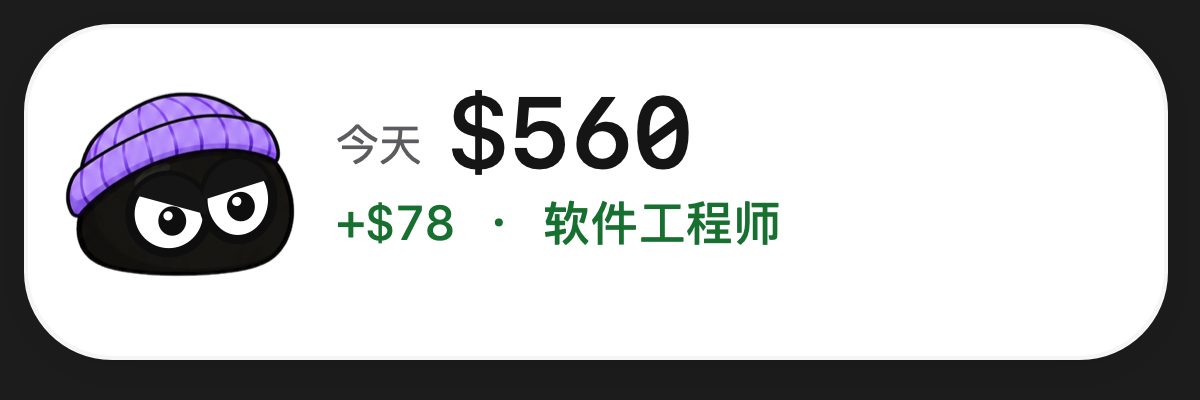
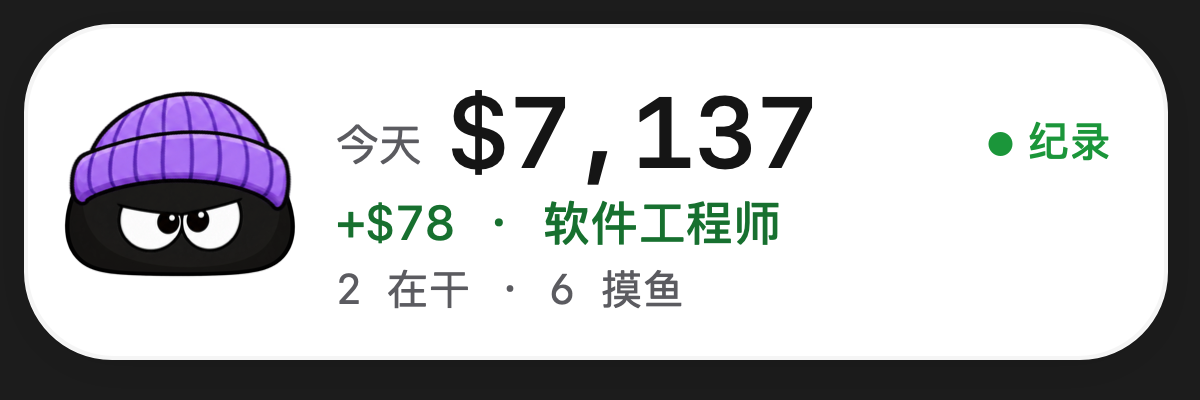
docs: DANGO, WorkBuddy, the deflated scoring and the art pipeline
README, CLAUDE.md, DESIGN.md, DEVELOPMENT.md and OPEN_QUESTIONS.md
follow the rename, the new sources (DeepSeek Harness, WorkBuddy), the
scoring rules and their rebuild, one scientist, the art pipeline
(dango_pack, fit_roles, check_art) and the domain question; the README
screenshots are re-taken.

diff --git a/CLAUDE.md b/CLAUDE.md
@@ -1,6 +1,6 @@
 # 打工团子 Dango — 衡量 AI 编码产出
 
-"团子"（英文 Dango，旧名 ShadowCorp）是一只桌面宠物，有活就在办公室工位上干、按正在干的活换装；每一步按"该请谁来做"计时、按该职业的 BLS 时薪折成 $，和单日纪录、上周比，每天出一张日报卡。没有段位和 XP（v4 删了）。当前设计：docs/DESIGN.md v6（2026-10-29：每个领域一个代表、共 23 种职业（2026-10-31 按 ABTI 设计包加回文案 writer（含翻译）和产品经理 pm；文字按 2,000 字/小时，文件名带 prd / roadmap / 需求 / 规划 / 排期的算产品经理）（程序员下按步骤分网页 / 测试 / 运维），话题关键词分大类，插画办公室（2026-11-06 删掉了经典主题，11-07 删掉了矢量办公室）；并掉的旧 id 走 `[alias]`）；不封顶（2026-10-29 起，回合 / 日 / 周都不封，assets/scoring.toml 只剩单位）；"影子公司 / 办公室 / 徽章"设定已收起，成就目录 assets/achievements.json 仍在但不是主界面。
+"团子"（英文 Dango，旧名 ShadowCorp）是一只桌面宠物，有活就在办公室工位上干、按正在干的活换装；每一步按"该请谁来做"计时、按该职业的 BLS 时薪折成 $，和单日纪录、上周比，每天出一张日报卡。没有段位和 XP（v4 删了）。当前设计：docs/DESIGN.md v6（2026-10-29：每个领域一个代表、共 20 种职业（2026-10-31 按 ABTI 设计包加回文案 writer（含翻译）和产品经理 pm；2026-11-07 数学家、物理学家、化学家、生物学家并成科学家 scientist（用户：「就是科学家就好了」，按用户选的科学家平均价 BLS 19-2000 $46.29，用户同意后跑了 `rebuild --allow-lower`，累计少了约 $200，备份在 ~/.dango/backup/data-before-scientist-20261107.db）；文字按 2,000 字/小时，文件名带 prd / roadmap / 需求 / 规划 / 排期的算产品经理）（程序员下按步骤分网页 / 测试 / 运维），话题关键词分大类，插画办公室（2026-11-06 删掉了经典主题，11-07 删掉了矢量办公室）；并掉的旧 id 走 `[alias]`）；不封顶（2026-10-29 起，回合 / 日 / 周都不封，assets/scoring.toml 只剩单位）；"影子公司 / 办公室 / 徽章"设定已收起，成就目录 assets/achievements.json 仍在但不是主界面。
 
 ## 命令
 - 构建：`cargo build --workspace`（发布：`cargo build --release`，二进制 `target/release/dango`）
@@ -9,12 +9,12 @@
 - 测试：`cargo test --workspace`（黄金回合 fixtures/scoring/golden.toml，由 occupation.rs 的 golden_turns 读；成就用例 crates/daemon/tests/achievements.rs）
 - 回放：`DANGO_HOME=/tmp/sc DANGO_TZ=+08:00 cargo run -p cli -- replay fixtures/hooks/claude_code`
 - 报告（文字）：`dango report [--week|--month|--year] --day yesterday --names [--tool claude|codex]`（`--day` 选哪天所在的周期）。分享图：`dango card [--week|--month|--year] [--day D] [--out /tmp/x.png] [--no-open]`（2026-11-01 起出的是报告窗口那套 4:5 分享图，从不带项目名和会话标题；渲染走 /Applications/Dango.app 的 `--abti … --page share`，改了 Swift 要先 bundle.sh + 重装；`card` 会覆盖剪贴板，只看渲染就 `dango abti --report KIND > x.json` 再 `dango-widget --abti x.json out.png --page share`）。
-- 仪表盘截图：`dango-widget --snapshot-dashboard out.png [--range 1|7|30] [--open-jobs] [--office N]`（`--office N` 编 N 个人进办公室看效果；读 $DANGO_HOME/widget.json）；宠物截图（右下角的卡片）：`--snapshot-pet out.png --state working|… --job <职业id> [--helpers N] [--receipt] [--backdrop]`（透明 PNG，`--backdrop` 加深色底）；办公室截图：`--snapshot-office out.png --jobs id,id,… [--working K]`（前 K 个在干）。改角色或办公室要截一张办公室和面板看（职业有设计包抠图的用抠图，没有的画成矢量团子，两种都要看）。
-- 办公室：只有设计稿的插画办公室（方案 B），没有主题菜单了。2026-11-06 删掉了经典主题（深色面板、舞台 + 茶水间办公室、大宠物、团子口味、旧分享卡，用户：「那我觉得你可以删掉这个版本的ui」），11-07 删掉了矢量办公室 A（用户：「请你把矢量办公室的也删掉」）；没有抠图的职业仍画成矢量团子（theme.swift `drawVectorDango`）。代码在 apps/widget/theme.swift（build.sh 把 main / theme / abti / story 四个文件一起编），插画和抠图在 apps/widget/assets/theme-b（bundle.sh 拷进 Dango.app/Contents/Resources）。`--snapshot-office … --statuses working,happy,fuming,waiting,idle,sleeping` 和 `--snapshot-dashboard --office N --statuses …` 指定每个人的状态；`--t 秒` 看某一时刻。设计稿原件在用户的 dango-ui-handoff 包（README、tokens.json）。办公室状态：守护进程写 `office[].status`（waiting / fuming / happy，见 widget.rs `office`），其余由小部件按 `since` 算（theme.swift `officeStatus`）。
-- 老板人格测试 ABTI（2026-10-31，设计包 ~/Downloads/dango-abti-handoff）：`dango abti [--json]` 出结果，`dango abti --report day|week|month|year|total [--day D]` 出报告窗口 / 分享图的数据（含 `sessions` / `projects`：这段时间做了哪些事，会话标题和项目文件夹名，Claude Code 和 Codex 都有，只给报告窗口用）。门槛和文案全在 assets/abti.json（= 设计包的 config/abti.json），调门槛、改文案只改它；计算在 crates/daemon/src/abti.rs（四维、规模、压榨率、团子构成、体检单、热力图按自己的四分位、故事的名场面）。界面在 apps/widget/abti.swift（总卡、16 型图鉴、规模 / 构成说明页、4 张分享图、报告窗口）和 story.swift（故事 8 屏、说明页窗口）；图片在 apps/widget/assets/abti（bundle.sh 拷进 Resources）。截图：`dango-widget --abti result.json out.png --page card|types|scale|roles|share|report|story [--screen N --guess HMSL|skip --t 秒 --bare] [--section crew|work] [--lang zh|en]`（要在仓库根目录跑，才读得到 assets/abti.json）。入口：右键「老板人格测试」（看测试结果 / 16 型图鉴 / 两张说明页）和「报告」，面板「导出今日日报」左边的方块开报告窗口；第一次有数据时自动打开故事一次（UserDefaults `abtiShown`）。故事、总卡和各页都跟界面语言走（英文文案是我们写的：abti.json 里各处 `*_en`，story 下的 `guess_lines_en` / `verdict_en` / `relations_en`、医嘱 `en`）。面板导出键右端 ▾ 选日报 / 周报 / 月报 / 年报（本期和上一期），出的都是 4:5 分享图。所有导出存 ~/Pictures/DONGO（2026-11-01 按设计包统一字标 DONGO 和文件夹）。
-- 一行命令安装：`package.sh` 同时出 `Dango-<版本>.zip` 和 `install.sh`（模板 apps/widget/install.sh.in，写进版本、SHA-256 和 `DANGO_RELEASE_URL`，默认 https://dongo.app 还没上线）；用户 `curl -fsSL <地址>/install.sh | sh`，curl 下载不带 quarantine 所以 Gatekeeper 不拦。脚本里变量后面紧跟中文要写成 `${VAR}`（sh 会把中文字节当成变量名）；更新时用 `pkill -x Dango` 退出旧的，别用 AppleScript（会弹自动化权限）。本机测：起 `python3 -m http.server 8790 --directory target/dist`，再 `DANGO_URL=http://localhost:8790 DANGO_APP_DIR=<临时目录> DANGO_NO_OPEN=1`。
+- 仪表盘截图：`dango-widget --snapshot-dashboard out.png [--range 1|7|30] [--open-jobs] [--office N]`（`--office N` 编 N 个人进办公室看效果；读 $DANGO_HOME/widget.json）；宠物截图（右下角只有一只团子，2026-11-07 用户：「就只放个团子…不需要这么大的白色背景」；结算、提示和鼠标停在上面时头顶冒一个深色小胶囊）：`--snapshot-pet out.png --state working|… --job <职业id> [--helpers N] [--receipt] [--backdrop]`（透明 PNG，`--backdrop` 加深色底）；办公室截图：`--snapshot-office out.png --jobs id,id,… [--working K]`（前 K 个在干）。角色总览：`--snapshot-roles out.png [--statuses idle,working,…]`（R01–R12 和不戴配饰的团子，每种状态一列；改团子部件或 tools/dango_pack.swift 里的调整表后看它）。改角色或办公室要截一张办公室和面板看（有配饰的职业和没配饰的都要看）。
+- 办公室：只有设计稿的插画办公室（方案 B），没有主题菜单了。2026-11-06 删掉了经典主题（深色面板、舞台 + 茶水间办公室、大宠物、团子口味、旧分享卡，用户：「那我觉得你可以删掉这个版本的ui」），11-07 删掉了矢量办公室 A（用户：「请你把矢量办公室的也删掉」）。团子都是按设计师 v2 开发包（~/Downloads/DONGO_Developer_Pack_v2）现拼的：身体 B01 + 状态眼神 E01–E12 + 职业配饰 P01–P12，部件和坐标在 apps/widget/assets/dango（tools/dango_pack.swift 从开发包切出来，dango.json 是 512×512 布局），theme.swift `drawPackDango` / `drawFittedDango` / `packPicture` 画（宠物卡片、办公室、名册、老板人格的团子构成和分享图都走它）；部件都按原比例放进框里居中（开发包渲染器的 xMidYMid meet）；眼镜的两个镜片在切图时量出来，左右眼分别放进镜片中间。每个角色的眼睛和配饰放在哪，是 tools/fit_roles.py 从设计师的角色总图（开发包 reference/original_design_pack/02_roles/12_roles.png）量出来、贴进 tools/dango_pack.swift 的 `measured` 表的（2026-11-07 用户：「团子的耳机和帽子都是不符合逻辑的」，开发包 manifest 的坐标和之前手调的都不对）：身体照总图画得更圆（B01 拉到高宽比 0.76），帽子的下沿停在眼白上沿，发带和头一样宽，耳机的箍压在头顶、眼睛放在两个耳罩中间；毛线帽、贝雷帽、鸭舌帽、耳机、发带不用图集里的：单独画的配饰没法「戴上」（帽子底部露在额头上、毛线帽扣在头顶不包头，用户：「帽子的底部不应该露在外面，而且紫色帽子应该包头」），2026-11-07 用户同意后用 Codex 自带的生图（开发包当初用的同一个工具，`codex exec -i 参考图`，gpt-6-astra xhigh）按这个身体重画成戴上的样子，原图在 apps/widget/assets/dango-src/worn；fit_roles.py 把配饰抠出来写成 P03 / P05 / P06 / P07 / P12（dango_pack 不再切这 5 个），毛线帽和鸭舌帽按「帽口以上的头全被盖住、帽口停在眼白上沿」自动定大小；铅笔要压住头的一角（`touch`：往身体中间挪到四分之一压在身体上，用户：「笔和团子有间隙」）。改了部件先跑 dango_pack，再跑 `python3 tools/fit_roles.py <开发包> apps/widget/assets/dango`，把输出贴回 `measured` 表再跑一次 dango_pack。眼神按开发包 taskVisuals：在干 E02、等你批准 E04、开心 E06、冒烟 E07（加额头泛红）、睡 E09、其余 E01；职业 → 角色见 `packRoles`（2026-11-07 起音乐人用开发包空着的爆炸头 R01、健身教练用运动发带 R12；开发包没有的职业同一天用同样的生图办法画了戴上的配饰 R13–R21：医生听诊器（先画的额镜像矿灯，用户：「感觉像矿工」）、律师假发、建筑师安全帽、厨师高帽、心理咨询师围巾、金融分析师绿色礼帽、前端螺旋桨帽、资料录入绿色遮阳帽檐、科学家推到额头的护目镜，用户：「可以把他们的装饰都放到他们的团子上吗」；fit_roles.py `EXTRA` 按戴法定位：cover 罩住头顶、band 绕头一圈压在眼白上沿、rest 立在头顶、wig 比头宽两边垂卷、neck 围在身体下半截眼睛往上让；dango_pack `extraRoles` 写进 dango.json），现在每个职业都有自己的样子。办公室沙发三个座位各对着一个坐垫，只陷进坐垫上沿 1.5 pt；等你批准的站在两张桌子中间、画在干活的后面。2026-11-07 删掉了旧的 R01–R12 抠图（浅色底抠的，边缘一圈灰白、只有约 300 px）、叠眼的 roleEyes 和矢量团子（用户：「这些贴图是有边缘的」「从根源上把图片这个问题解决」）。沙发和桌子的前景层是 theme-b/room-front.png（tools/room_front.swift 顺着坐垫、扶手的描边从 room.png 切出来，团子坐进沙发不再被平切）。bundle.sh 先跑 tools/check_art.swift：部件没透明、外缘亮色超过 30%、分辨率不到最大显示尺寸的 3 倍，打包就失败。代码在 apps/widget/theme.swift（build.sh 把 main / theme / abti / story 四个文件一起编），房间插画和前景层在 apps/widget/assets/theme-b，团子部件在 apps/widget/assets/dango（bundle.sh 都拷进 Dango.app/Contents/Resources）。`--snapshot-office … --statuses working,happy,fuming,waiting,idle,sleeping` 和 `--snapshot-dashboard --office N --statuses …` 指定每个人的状态；`--t 秒` 看某一时刻。设计稿原件在用户的 dango-ui-handoff 包（README、tokens.json）。办公室状态：守护进程写 `office[].status`（waiting / fuming / happy，见 widget.rs `office`），其余由小部件按 `since` 算（theme.swift `officeStatus`）。
+- 老板人格 ABTI（2026-10-31，设计包 ~/Downloads/dango-abti-handoff）：`dango abti [--json]` 出结果，`dango abti --report day|week|month|year|total [--day D]` 出报告窗口 / 分享图的数据（含 `sessions` / `projects`：这段时间做了哪些事，会话标题和项目文件夹名，Claude Code 和 Codex 都有，只给报告窗口用）。门槛和文案全在 assets/abti.json（= 设计包的 config/abti.json），调门槛、改文案只改它；计算在 crates/daemon/src/abti.rs（四维、规模、压榨率、团子构成、体检单、热力图按自己的四分位、故事的名场面）。界面在 apps/widget/abti.swift（总卡、16 型图鉴、规模 / 构成说明页、4 张分享图、报告窗口）和 story.swift（故事 7 屏：6 屏故事 + 总卡，没有「先猜」，2026-11-07 用户：「这个其实不是测试，是直接的输出」；说明页窗口）；图片在 apps/widget/assets/abti（bundle.sh 拷进 Resources）。截图：`dango-widget --abti result.json out.png --page card|types|scale|roles|share|report|story [--screen N（1–7）--t 秒 --bare] [--section crew|work] [--lang zh|en]`（要在仓库根目录跑，才读得到 assets/abti.json）。入口：右键「老板人格」（我的老板人格 / 16 型图鉴 / 两张说明页）和「报告」，面板底部「报告」开报告窗口；第一次有数据时自动放一次故事（UserDefaults `abtiShown`），之后「我的老板人格」直接打开总卡，‹ 往回翻故事。故事、总卡和各页都跟界面语言走（英文文案是我们写的：abti.json 里各处 `*_en`，story 下的 `verdict_en` / `relations_en`、医嘱 `en`）。面板底部一行（2026-11-07 用户嫌原来的大黑键占地方）：「分享日报」点了存图并弹系统分享菜单（main.swift `makeCard(shareFrom:)`），右键它是复制今日日报、分享 / 复制其他周期（本期和上一期）、打开导出文件夹；宠物右键「导出报告」仍是存图 + 复制。出的都是 4:5 分享图，日 / 周 / 月 / 年报上有这段时间自己的老板人格（abti.rs `letters()` 只算这段时间的回合，报告 JSON 的 `boss`），总计那张是总人格。所有导出存 ~/Pictures/DANGO。产品名是 DANGO（2026-11-07 用户：「产品名字不是dongo，是dango，所有的ui都要换一下的」）：字标是 D + 团子当 A + NGO + 蓝色箭头（abti.swift `AB.wordmark`，图在 theme-b/logo-dango.png），App 图标是白底圆角方块上的团子（icon.swift，同一张图）；11-01 到 11-07 用过设计包的 DONGO，旧的 ~/Pictures/DONGO 里的图不动。
+- 一行命令安装：`package.sh` 同时出 `Dango-<版本>.zip` 和 `install.sh`（模板 apps/widget/install.sh.in，写进版本、SHA-256 和 `DANGO_RELEASE_URL`，默认 https://dango.app 还没上线）；用户 `curl -fsSL <地址>/install.sh | sh`，curl 下载不带 quarantine 所以 Gatekeeper 不拦。脚本里变量后面紧跟中文要写成 `${VAR}`（sh 会把中文字节当成变量名）；更新时用 `pkill -x Dango` 退出旧的，别用 AppleScript（会弹自动化权限）。本机测：起 `python3 -m http.server 8790 --directory target/dist`，再 `DANGO_URL=http://localhost:8790 DANGO_APP_DIR=<临时目录> DANGO_NO_OPEN=1`。
 - 打包给别人：`apps/widget/package.sh` → `target/dist/Dango-<版本>.dmg`（通用二进制，macOS 13 起，ad hoc 签名；本机没有 Developer ID，没做公证）。`dango` 命令放在 `Dango.app/Contents/Helpers/dango`——放进 Contents/MacOS 会和 App 自己的 `Dango` 撞成同一个文件（磁盘不分大小写）。第一次打开时 App 写 `~/Library/LaunchAgents/com.dango.daemon.plist` 指向 Helpers 里的 dango 并启动（main.swift `ensureDaemon`）；已有指向别处、文件还在的 agent（开发机的 ~/.local/bin/dango）不动；App 原地更新后按二进制时间戳 kickstart 一次。看 App 会写什么 agent：`Dango.app/Contents/MacOS/Dango --print-daemon-agent`。`build.sh` 认 `SWIFT_TARGET`（如 `arm64-apple-macos13.0`）；不设就是本机系统版本，别的 Mac 打不开。
-- 守护进程第一次启动先导入历史（server.rs `import_history`，meta `history_imported`，和 `dango backfill` 一样的截止规则，backfill 模式），之后靠跟读：Codex 读 rollout（codex_tail.rs），Claude Code 读 transcript（claude_tail.rs，和回填共用 backfill.rs 的 `Transcript`，事件 id 相同）。装了 Dango 插件或 settings.json 里有 `dango hook` 时不读 Claude 的 transcript（`claude_tail::hooked`），钩子报过的会话也丢掉（server.rs `drop_hooked_sessions`）。跟读时还读 Claude Code 自己的 `~/.claude/sessions/<pid>.json`（`claude_tail::live_sessions`，内部文件不是公开接口，读不到就退回老规则）：idle → 回合马上结算，`waitingFor` → 记一条 `permission_prompt` 通知事件（不存对话框的字）。子 agent 从 transcript 记 `subagent_start` / `subagent_stop`，在干的帮手 = 开始 − 结束（`snapshot::running_helpers`）。团子的「最近动静」算所有事件（不只是钩子的）。右键「结算时发系统通知」（UserDefaults `settleNotice`，main.swift `SettleNotice`）代替钩子才有的结算框。测新用户：`HOME=<临时目录，里面 .claude/projects、.codex/sessions 软链到真的> DANGO_HOME=<临时>/.dango dango daemon`。
+- 守护进程第一次启动先导入历史（server.rs `import_history`，meta `history_imported`，和 `dango backfill` 一样的截止规则，backfill 模式），之后靠跟读：Codex 读 rollout（codex_tail.rs；每秒看最近 3 天的日期文件夹，每 30 秒看一遍所有日期文件夹——续聊的旧会话还写在它开始那天的文件夹里，2026-11-07 前这种会话要等重新导入历史才算上），WorkBuddy 读 `~/.workbuddy-ai/projects/*/<会话>.jsonl`（海外版 WorkBuddy AI；国内版 `~/.workbuddy`；workbuddy.rs：OpenAI Agents 式条目，`message`（人发的带 `providerData.startsNewUserRequest`）/ `function_call`（工具名和参数就是 Claude Code 的）/ `function_call_result`，每步第一条带 `rawUsage` token 和 credit；回答后 20 秒没动静算回合结束；模型是它自己的 "Auto"、只按 credit 计费没有官方 token 单价，所以 token 记下、花费不算；历史另记 meta `history_imported:workbuddy`；子 agent 不读），DeepSeek Harness 读 `~/.dsh/sessions/**/session.v4.jsonl.zstd`（dsh.rs：zstd 帧追加的事件日志，用纯 Rust 的 ruzstd 解；历史另记 meta `history_imported:deepseek`；工具名是 Claude Code 的小写版、参数同名，走同一个 `from_claude_hook`；子 agent 会话不读；价格按 DeepSeek 官方高峰价），Claude Code 读 transcript（claude_tail.rs，和回填共用 backfill.rs 的 `Transcript`，事件 id 相同）。装了 Dango 插件或 settings.json 里有 `dango hook` 时不读 Claude 的 transcript（`claude_tail::hooked`），钩子报过的会话也丢掉（server.rs `drop_hooked_sessions`）。跟读时还读 Claude Code 自己的 `~/.claude/sessions/<pid>.json`（`claude_tail::live_sessions`，内部文件不是公开接口，读不到就退回老规则）：idle → 回合马上结算，`waitingFor` → 记一条 `permission_prompt` 通知事件（不存对话框的字）。子 agent 从 transcript 记 `subagent_start` / `subagent_stop`，在干的帮手 = 开始 − 结束（`snapshot::running_helpers`）。团子的「最近动静」算所有事件（不只是钩子的）。右键「结算时发系统通知」（UserDefaults `settleNotice`，main.swift `SettleNotice`）代替钩子才有的结算框。测新用户：`HOME=<临时目录，里面 .claude/projects、.codex/sessions 软链到真的> DANGO_HOME=<临时>/.dango dango daemon`。
 - 隐私扫描：`cargo run -p cli -- privacy-scan`（提交前必跑）
 - 语言：`dango lang zh|en`（写 config.toml `general.locale`，守护进程看到改动就按新语言重写 widget.json）；截图在 `DANGO_HOME` 里先 `dango lang en` 再截，就是英文版。
 - 旧名兼容：仓库在 `~/dango`（GitHub justinz183/dango），本机插件是 `dango@dango`（目录市场指向 ~/dango，装的是 git HEAD，改了钩子要先提交再 `claude plugin marketplace update dango` + `claude plugin update dango@dango` + 重启 Claude Code）。Codex 不用钩子：守护进程每秒跟读 `~/.codex/sessions` 的 rollout（crates/daemon/src/codex_tail.rs，和回填共用 backfill.rs 的 `Rollout`，事件 id 相同所以不会重复计）；`dango hook --codex` 只是给旧的 ~/.codex/hooks.json 留的空操作。为了过渡还留着几个链接：`~/shadowcorp` → `~/dango`、`~/.shadowcorp` → `~/.dango`、`~/.local/bin/shadowcorp` → `dango`；代码也认 `SHADOWCORP_HOME` / `SHADOWCORP_TZ`。
@@ -31,7 +31,7 @@
 - crates/core 不做任何 IO；所有计分、进度、成就逻辑只在这里。
 - 事件表只追加；任何让用户历史总数变少的改动都不允许（SPEC 5.5）。
 - 不落盘、不上传 prompt / 代码 / 路径 / 仓库名（SPEC 14）。v5 起本地会存每个回合的 token 数（按模型）和按官方 API 价算出的模型花费——只有数字，永不上传（用户 2026-10-29 决定）。
-- 改职业表、时薪、每步分钟数（core/occupation.rs）、计分规则或成就阈值前先问我，并同步更新 golden.toml。不要再加封顶（用户 2026-10-29："就记数值就行了，不要封顶"）。
+- 改职业表、时薪、每步分钟数（core/occupation.rs）、计分规则或成就阈值前先问我，并同步更新 golden.toml。不要再加封顶（用户 2026-10-29："就记数值就行了，不要封顶"）。2026-11-07 去通胀（用户：「记分太通货膨胀了」「再优化下所有的角色的工作时间记分」）：一个回合里同一个文件只算一次（行数 / 字数累加后按一次定价，配置和图片一个文件一次，occupation.rs `TurnSteps`），同一职业的第 k 次命令或检索按 1/√k 算（不是封顶，越来越少但一直加），回合的 5 分钟和子 agent 的 12 分钟按各职业的份额分（原来全给最多的那个，软件工程师越滚越大），`.sh` 算运维，`components/ pages/ views/ ui/ public/ static/ frontend/ client/ www/` 里的 js / ts 算前端；ingest 用事件里存的行数、字数、文件 id 现算，所以 `rebuild` 能回算历史（路径没存，前端目录这条只管以后）。黄金回合的值用独立的 Python 模型算（golden.toml 头注释）。用户同意后跑了 `rebuild --allow-lower`：累计 $41,759 → $30,678（−26.5%），备份在 ~/.dango/backup/data-before-deflate-20261107.db。
 - 话题先分大类（occupations.toml `[[family]]`，每类一个代表职业）再按 `tell` 认专科；strong / weak 只给大类记分。中文是子串匹配，不收单字（白名单见 occupation.rs `no_single_character_keywords`），泛用词（怎么做、解释一下、经济、需求……）只能当弱词，tell 只收专科独有的词；加了词先跑 `echo '一句话' | cargo run -q -p dango-core --example topic`、`families_then_specialties` 和 `everyday_prompts_have_no_topic`。泛用词藏在别的词里也会命中（"提供给"含"供给"、"帮我查查"），所以强词必须是只在那个行当出现的词，改完先跑 `python3 tools/topic_calibrate.py`（本机真实提示过一遍，只打印前 64 字、不落盘）和 `--why`（看每条命中了哪些词）。几个大类打平时（各命中一个强词），钩子把并列的都写进 `topic_ties`，守护进程沿用会话当前话题（replay.rs `a_tied_prompt_stays_on_the_sessions_topic`）。
 - 时薪只能来自可查的来源（目前是 BLS OEWS API），写明序列和日期；模型单价只能抄官方价格页（assets/model_prices.toml 写明 URL 和日期）。不凭记忆填数。
 - $ = 各职业分钟 × 该职业时薪；累计只增不减。例外只有用户明确同意时的 `dango rebuild --allow-lower`（2026-10-29：文字改成 2,000 字/小时、去掉文案写作，用户同意历史重算变少）。2026-10-31 按设计包加回文案和产品经理后，历史没有重算（重算会把一部分研究员的钱挪到时薪更低的文案，总数会变少，要用户同意才能 `--allow-lower`）。

diff --git a/docs/DESIGN.md b/docs/DESIGN.md
@@ -10,7 +10,7 @@ ShadowCorp 是住在屏幕角落的"你的 Claude"：它记得自己替你干了
 
 用户："帮我把整个系统都按照这个名字修改，并且中英文版都要开发，然后加一个语言转换功能"；"对比先加这个自己的历史、全职工程师当量"；"工位每次只能一个人干吗……多人一起干的时候怎么样……浇花的时候花洒位置不对……那个花要是花才对"。
 
-- **名字**：中文"打工团子"，英文 Dango（日语团子；角色本来就是一颗黑芝麻团子）。宠物默认叫"团子"/"Dango"（`config.character.name` 为空时）。命令 `dango`，App `Dango.app`（bundle id com.dango.widget），数据 `~/.dango`（`DANGO_HOME`），守护进程 com.dango.daemon，导出存 `~/Pictures/DONGO/`（2026-11-01 前是 `~/Pictures/Dango/`），crate `dango-core`，插件清单 `dango`。旧名都留了兼容（见 CLAUDE.md）。
+- **名字**：中文"打工团子"，英文 Dango（日语团子；角色本来就是一颗黑芝麻团子）。宠物默认叫"团子"/"Dango"（`config.character.name` 为空时）。命令 `dango`，App `Dango.app`（bundle id com.dango.widget），数据 `~/.dango`（`DANGO_HOME`），守护进程 com.dango.daemon，导出存 `~/Pictures/DANGO/`（2026-11-01 前是 `~/Pictures/Dango/`，11-01 到 11-07 是 `~/Pictures/DONGO/`），crate `dango-core`，插件清单 `dango`。旧名都留了兼容（见 CLAUDE.md）。
 - **语言**：`config.toml` 的 `general.locale`（"zh-CN" / "en"）。`dango lang zh|en` 改它；守护进程每次轮询看 config 的修改时间，变了就重读并重写 widget.json，所以菜单一点、两秒内全换。widget.json 和每份报告都带 `lang`；职业名在出口统一换（`widget::localize`），英文名是 `occupations.toml` 的 `name_en`（软件工程师 = Software engineer，前端工程师 = Front-end engineer……），来源说明 `label_en`。英文日期："Thursday, Oct 29"、"Oct 26 – Nov 1 · Week 44"、"October 2026"。英文句子里的职业名小写并带冠词（`a_job`："Mostly a software engineer today"）。
 - **和自己比、全职当量**（卡片上一行，日报在纪录条下面，周 / 月 / 年报在"上期 → 本期"下面）：`standing` = 这一期在你自己所有有活的同类期里排第几（日报说"超过你 95% 的日子"，其余说"你最好的一周（共 3 周）""你第 2 好的一个月"，第一期说"这是你的第一周"）；`people` = 工时 ÷ 一个全职的人一天 8、一周 40、一个月 160、一年 2080 小时（"相当于 4.3 个人全职干一天"）。只用本机数据，不和别人比（没有可比的公开数据，上传要另议）。
 - **卡片修正**：不显示会话标题时，会话行写"软件工程师 · Claude Code · 100 个回合"而不是"会话 1"；月历和年热力图里开始记录之前的日子画成浅色（月历在第一天标"开始记录"）；周 / 月 / 年报的"单日纪录"那行换成上面的对比行。
@@ -23,10 +23,10 @@ ShadowCorp 是住在屏幕角落的"你的 Claude"：它记得自己替你干了
 用户："我做了几个版本的设计方案，你可以做一个换装吗，就是主题更换，这样我可以看不同主题下的展示"。右键「主题 / Theme」三选一，切换时面板和桌面上的小东西一起换：
 
 - ~~**经典**~~：原来的深色玻璃仪表盘和透明桌宠。2026-11-06 删掉（用户看了一台没装插件的新机器：「那我觉得你可以删掉这个版本的ui」）：新装的机器默认是它；现在默认插画办公室，存着 `classic` 的读成插画办公室。团子口味、舞台 + 茶水间办公室、按场景干活的大宠物、旧的四种分享卡（§5）和面板上的「全部 / Claude Code / Codex」切换跟着一起删了（widget.json 不再写按工具的 `views`）。
-- ~~**A · 矢量办公室**~~：2026-11-07 删掉（用户：「请你把矢量办公室的也删掉」），右键的主题菜单也没了；没有抠图的职业仍画成矢量团子。
+- ~~**A · 矢量办公室**~~：2026-11-07 删掉（用户：「请你把矢量办公室的也删掉」），右键的主题菜单也没了；没有抠图的职业仍画成矢量团子。同一天稍后，抠图和矢量团子也都换掉了：团子都是按设计师 v2 开发包（~/Downloads/DONGO_Developer_Pack_v2）现拼的：身体 B01 + 状态眼神 E01–E12 + 职业配饰 P01–P12，部件和坐标在 apps/widget/assets/dango（tools/dango_pack.swift 从开发包切出来，dango.json 是 512×512 布局），theme.swift `drawPackDango` / `drawFittedDango` / `packPicture` 画（宠物卡片、办公室、名册、老板人格的团子构成和分享图都走它）；眼神按开发包 taskVisuals：在干 E02、等你批准 E04、开心 E06、冒烟 E07（加额头泛红）、睡 E09、其余 E01；职业 → 角色见 `packRoles`，没有配饰的职业是同一个身体。2026-11-07 删掉了旧的 R01–R12 抠图（浅色底抠的，边缘一圈灰白、只有约 300 px）、叠眼的 roleEyes 和矢量团子（用户：「这些贴图是有边缘的」「从根源上把图片这个问题解决」）。沙发和桌子的前景层是 theme-b/room-front.png（tools/room_front.swift 顺着坐垫、扶手的描边从 room.png 切出来，团子坐进沙发不再被平切）。bundle.sh 先跑 tools/check_art.swift：部件没透明、外缘亮色超过 30%、分辨率不到最大显示尺寸的 3 倍，打包就失败。
 - **A · 矢量办公室**、**B · 插画办公室**：设计稿 v3（dango-ui-handoff，2026-10-30）。白色面板 440 宽：顶栏（字标、day N、圆形收起键）→ 办公室（A 392×210 代码画的房间，B 392×178 插画背景 + 设计包的角色抠图）→ 今日 $ 大数字、单日纪录、团子的一句话 → 1D / 7D / 30D → 四个数字块 → 员工名册（在干黑卡、等你批准白卡描边、摸鱼灰卡、下班淡掉；默认 6 张，+ 展开）→ Claude Code 与 Codex 对比条 → 最近 30 天柱图（今天绿色）→ 导出（左边方块打开报告窗口，右边黑色主按钮导出今日日报，右端 ▾ 选周报 / 月报 / 年报和上一期）。桌面上的团子换成 300×100 的白卡（团子、今天 $、纪录、在当谁 · 杠杆、几人在干 / 摸鱼）。
 - **团子的状态**（README 办公室的状态）：在干 / 开心 / 冒烟 / 等你批准 / 摸鱼 / 睡了 / 下班，各有眼神、动作（bob、hop、shake、tilt、breathe）和位置（两个工位、站位、三个沙发座位、A 还有门口一个），换位置时 0.9 秒走过去，每 4.3 秒眨一次眼。状态从哪来（2026-10-30）：守护进程按事件写 `office[].status` / `status_since`——**等你批准** = 会话收到 `permission_prompt` 通知、到它下一个事件为止（等多久都算）；**冒烟** = 本回合测试命令失败 ≥ 3 次（`widget::FUMING_FAILS`）；**开心** = 最近一个回合以测试全绿或一次提交结束、30 分钟内（`HAPPY_MS`）。在干 / 摸鱼 / 睡了（一小时没活）/ 下班（今天没活）由小部件按时间算。角落卡片上的团子用当前职业在办公室里的状态。用例 replay.rs `office_states_follow_the_events`。
-- **和设计稿不一样的地方**：名册用职业名，没有"阿析、码哥"这种名字；设计包只画了 7 个职业的配饰 / 抠图（数据分析师、软件工程师、平面设计、研究员、视频剪辑、运维、B 里还有测试），别的职业在 A 里是不戴配饰的团子，在 B 里退回 A 的矢量团子；B 右边站位和两个工位会挤（设计稿已知问题 3）；中文模式下 day N、1D / 7D / 30D、avg $/d 写成「第 N 天」「1 天 / 7 天 / 30 天」「日均」（一屏一种语言）。2026-11-01 起字标和设计稿一样写 DONGO。
+- **和设计稿不一样的地方**：名册用职业名，没有"阿析、码哥"这种名字；设计包只画了 7 个职业的配饰 / 抠图（数据分析师、软件工程师、平面设计、研究员、视频剪辑、运维、B 里还有测试），别的职业在 A 里是不戴配饰的团子，在 B 里退回 A 的矢量团子；B 右边站位和两个工位会挤（设计稿已知问题 3）；中文模式下 day N、1D / 7D / 30D、avg $/d 写成「第 N 天」「1 天 / 7 天 / 30 天」「日均」（一屏一种语言）。2026-11-01 起字标和设计稿一样写 DONGO；2026-11-07 用户改回产品名 DANGO，字标是 D + 团子当 A + NGO + 蓝色箭头，App 图标换成白底上的团子。
 
 ### Codex 不用钩子（2026-10-29）
 
@@ -105,7 +105,7 @@ v2 的四类是按 prompt 关键词分的，78% 落进"其他"，而且只认得
 | 视频剪辑 | 27-4032 | $36.26 | ffmpeg / moviepy / remotion；配音 tts；whisper 字幕；yt-dlp | 15 / 15 / 20 / 5 |
 | 资料录入 | 43-9021 | $19.88 | OCR（tesseract、自写 ocr 脚本） | 15 |
 
-一个回合 = 各步之和 + 5 分钟（读需求、汇报）+ 每个子 agent 12 分钟，都记在本回合最主要的职业上。写 md / txt / docx …（文字）不再是单独的职业（2026-10-29 去掉了"文案写作"，用户："不要加文案这个工种了，放到别的工种里面"）：字数 ÷ 2,000 字/小时（至少 3 分钟），算研究员的活（用户："writer 这件事本身就不应该存在，就是按照 researcher 的工种来的"），和搜索、读网页一样，在有话题的回合里跟着研究一起归给话题的职业；聊写作、翻译的话题也归研究员。旧数据里的 `writer` 走 `[alias]` 读成研究员。不封顶（2026-10-29 起）：原来的单回合 6 小时、每日 6 人日、每周 30 人日都去掉了，用户原话"不需要记分的，就记数值就行了，不要封顶"——两个 agent 一起跑，下午一点就到了每日上限，之后干的活全记 $0，看起来像没反应。2026-10-31 ABTI 设计包把文案（writer，含翻译）和产品经理（pm，SOC 13-1082，BLS $49.19）加回来，共 23 种：文字归文案，文件名带 prd / roadmap / 需求 / 规划 / 排期的归产品经理；话题里写作、翻译归文案，PRD、路线图、排期、需求评审归产品经理（研究员的规划类强词挪给了它）。历史没有重算。字数只数不存；命令只看关键词，不存。规则在 `crates/core/src/occupation.rs`，12 个黄金回合在 `fixtures/scoring/golden.toml`。
+一个回合 = 各步之和 + 5 分钟（读需求、汇报）+ 每个子 agent 12 分钟，都记在本回合最主要的职业上。写 md / txt / docx …（文字）不再是单独的职业（2026-10-29 去掉了"文案写作"，用户："不要加文案这个工种了，放到别的工种里面"）：字数 ÷ 2,000 字/小时（至少 3 分钟），算研究员的活（用户："writer 这件事本身就不应该存在，就是按照 researcher 的工种来的"），和搜索、读网页一样，在有话题的回合里跟着研究一起归给话题的职业；聊写作、翻译的话题也归研究员。旧数据里的 `writer` 走 `[alias]` 读成研究员。不封顶（2026-10-29 起）：原来的单回合 6 小时、每日 6 人日、每周 30 人日都去掉了，用户原话"不需要记分的，就记数值就行了，不要封顶"——两个 agent 一起跑，下午一点就到了每日上限，之后干的活全记 $0，看起来像没反应。2026-10-31 ABTI 设计包把文案（writer，含翻译）和产品经理（pm，SOC 13-1082，BLS $49.19）加回来，共 23 种：文字归文案，文件名带 prd / roadmap / 需求 / 规划 / 排期的归产品经理；话题里写作、翻译归文案，PRD、路线图、排期、需求评审归产品经理（研究员的规划类强词挪给了它）。历史没有重算。2026-11-07 数学家、物理学家、化学家、生物学家并成一个科学家（scientist，BLS 19-2000 Physical Scientists $46.29，2025 年 5 月中位数，2026-11-07 取；四个的关键词合在一起、四个话题大类并成「科学」；旧 id 和 mech / ee 走 `[alias]`），共 20 种；用户同意总数变少，跑了 `rebuild --allow-lower`（$39,787 → $39,585，其中科学家约 −$224，其余是 10-31 以来没回算的规则；重建后守护进程重新导入历史，补进了 Codex 跟读漏掉的 7 个会话 +$876）。字数只数不存；命令只看关键词，不存。规则在 `crates/core/src/occupation.rs`，12 个黄金回合在 `fixtures/scoring/golden.toml`。
 
 拿真实历史验证（2026-10，130 个回合）：程序员 25.6h、文案写作 28.6h、视频剪辑 26.0h、数据分析师 20.1h、研究员 10.3h …… 合计 129h，$6,054。
 
@@ -180,7 +180,7 @@ Claude Code 自己会给每个会话起标题（如「修复添加deepseek后的
 
 - 12 个月柱图（按职业堆叠，$ 过万写成 `$12.6k`，标最好的一个月；当月加粗、未来月份变淡）、全年热力图（每周一列、周一在上，月份名写在该月第一个整周上方；今天描边，之后的格子变淡；左下"最好的一天"，右下少 → 多图例）、都当了谁、活跃天数 / 回合 / 测试 / 杠杆、「去年 → 今年」与单日纪录、角色年评（160 小时 = 一个全职月：「今年顶一个全职干了 1.6 个月。」）。没放会话和作息，保证不超过 9:16。
 - **周期的名字**：当前周期说"今天 / 这周 / 这个月 / 今年"，比较对象是"昨天 / 上周 / 上个月 / 去年"；导出过去的周期时改说"那天 / 那周 / 那个月 / 那一年"，比较写绝对名字（`10/27 → 10/28`、`第 42 周 → 第 43 周`、`8 月 → 9 月`、`2024 年 → 2025 年`；报告里的 `now_label` 和 `prev.label`）。连续天数只在今天的日报上出现。
-- **导出入口**：仪表盘底部"导出报告"四个按钮（今日日报 / 本周周报 / 本月月报 / 今年年报，按当前选的 agent）；右键菜单"导出报告"子菜单多了昨日 / 上周 / 上月 / 去年。点了之后宠物说"正在生成…"，好了说"已复制到剪贴板"，失败说"没生成出来"；卡片同时存到 `~/Pictures/Dango/` 并打开。
+- **导出入口**：仪表盘底部"导出报告"四个按钮（今日日报 / 本周周报 / 本月月报 / 今年年报，按当前选的 agent）；右键菜单"导出报告"子菜单多了昨日 / 上周 / 上月 / 去年。点了之后宠物说"正在生成…"，好了说"已复制到剪贴板"，失败说"没生成出来"；卡片同时存到 `~/Pictures/Dango/` 并打开。（2026-11-07 起：面板底部只剩一行「按 BLS 中位时薪折算 · 报告 · ⇪ 分享日报」，点分享日报存到 `~/Pictures/DANGO` 并弹系统分享菜单，右键是复制和其他周期；日 / 周 / 月 / 年报分享图在金额下面加一条这段时间的老板人格。）
 
 ## 6. 小部件
 
@@ -201,13 +201,14 @@ Claude Code 自己会给每个会话起标题（如「修复添加deepseek后的
 冷启动活动：按真实用法把用户归到 16 型老板之一，做成故事、总卡、报告和分享图。设计包是 dango-abti-handoff（README、tokens、prototypes、config/abti.json）；**门槛和文案只在 assets/abti.json**，程序直接读，代码里不写死。
 
 - **四个维度**（abti.rs `result`）：H/M 看回合里 AI 自己动手的程度（工具调用 ≥ 8 或带子 agent 算放手）；B/F 看新文件里写的行数占全部改动的比例；S/G 看占比 ≥ 10% 的角色有几个（≥ 3 个算跨界）；L/O 看 20 点到次日 8 点的本地计时分钟占比。贴近分界线的维度在总卡上标「≈ on the fence」。绝配 = 前两个字母反过来、后两个不变。
-- **钱**：公司规模按累计产出分 5 档（固定门槛，不年化，不和别人比）；压榨率 = 1 − 模型花费 ÷ 产出，分档起名；杠杆 = 产出 ÷ 模型花费。团子构成把 23 种职业映射到 8 个角色 + 6 个隐藏款（占比 ≥ 10% 才露出来），其余算「其他」。
+- **钱**：公司规模按累计产出分 5 档（固定门槛，不年化，不和别人比）；压榨率 = 1 − 模型花费 ÷ 产出，分档起名；杠杆 = 产出 ÷ 模型花费。团子构成把 20 种职业映射到 8 个角色 + 6 个隐藏款（占比 ≥ 10% 才露出来），其余算「其他」。
 - **体检单** 6 格：累计 token（全产品唯一列 token 的地方）、新增代码行、测试一次过、夜班指数、最长连续开工、最多同时带的子 agent；分档是 Dango 自定的，样本太少就标出来。
 - **热力图** 按自己的产出排序分四档（不和别人比）。
 - **名场面**：最晚收工的回合（只看 0–6 点）、最拼的一天、最长连续开工、最长的一回合。回合长度按「AI 在干活的时间」算：回合里相邻事件的间隔相加，超过 10 分钟的间隔不算（那是在等人，不是在干活）——不然一个开着放了一夜的回合会显示成 21 小时。
-- **故事模式**（story.swift）：8 屏，540 × 960，白底（扫描那屏黑底）、8 段进度条、36pt 关闭键；点右边下一屏、左边三分之一或 ‹ 上一屏、← → 也行；关掉直接到第 8 屏总卡并复制到剪贴板；每屏能「分享这一屏」（1080 × 1920，去掉按钮，底部 dongo.app）。第 2 屏扫描 3 秒，第 3 屏字母每个间隔 0.35 秒翻 0.5 秒、1.6 秒出场景、2.1 秒对答案；系统开了「减少动态效果」就直接显示终态。故事中英两版都有，跟界面语言走（英文是我们写的，设计包只画了中文）；第 8 屏顶栏有「分享总卡」。
+- **故事模式**（story.swift）：7 屏，540 × 960，白底（扫描那屏黑底）、7 段进度条、36pt 关闭键；点右边下一屏、左边三分之一或 ‹ 上一屏、← → 也行；关掉直接到第 7 屏总卡并复制到剪贴板；每屏能「分享这一屏」（1080 × 1920，去掉按钮，底部 dango.app）。第 1 屏扫描 3 秒，第 2 屏字母每个间隔 0.35 秒翻 0.5 秒、1.6 秒出场景；2026-11-07 去掉了原来的第 1 屏「先猜」和揭晓屏的对答案（用户：「这个其实不是测试，是直接的输出」），故事只自动放一次，之后「我的老板人格」直接打开总卡，‹ 往回翻；系统开了「减少动态效果」就直接显示终态。故事中英两版都有，跟界面语言走（英文是我们写的，设计包只画了中文）；第 8 屏顶栏有「分享总卡」。
 - **报告窗口**（560 × 822）：日报 / 周报 / 月报 / 年报 / 总计五页（年报是 11-01 按用户要求加的：12 个月柱图、最拼的一个月、开工天数、最长连续），‹ › 翻期，导出对应的 540 × 675 分享图（存 1080 × 1350）。柱图下面一块可以在「团子构成」和「做了哪些事」之间切换（§4，只在本机显示，不进分享图）。
-- 二维码指向那一型自己的页面（`dongo.app/t/MBGO/`，英文 `/en/t/MBGO/`），日 / 周 / 月 / 年分享图指向首页；站点在 `site/`（见 site/README.md），还没上线，域名是占位。
+- 面板「工具分布」（2026-11-07，原来标题把各工具名连起来写，四个工具时压到右边的说明，用户：「不需要写 Claude Code, Codex, DeepSeek」）：Claude Code、Codex、DeepSeek、WorkBuddy 最多四个，各自的产出占比和杠杆。
+- ~~二维码指向那一型自己的页面~~：2026-11-07 起分享图、总卡和故事上都没有二维码和域名了（dango.app 不是我们的，挂在 GoDaddy 出售；用户：「不需要二维码dango.app，啥都不需要」），底部只留一行「全在本机算 …」；站点 `site/` 还在，没上线。
 
 ## 8. 实现顺序
 

diff --git a/README.md b/README.md
@@ -1,19 +1,23 @@
 <p align="center">
-  <img src="docs/images/pet.png" width="400" alt="屏幕角落的团子：今天 $560，刚结算一笔 +$78 · 软件工程师">
+  <img src="docs/images/logo.png" width="300" alt="DANGO">
 </p>
 
-<h1 align="center">打工团子 DONGO</h1>
+<p align="center">
+  <img src="docs/images/pet.png" width="400" alt="屏幕角落的团子：今天的产出，刚结算一笔 +$78 · 软件工程师">
+</p>
+
+<h1 align="center">打工团子 DANGO</h1>
 
 <p align="center">
   <b>你的 AI 在替你打工。团子把它干的活折成工钱，摆在你的桌面上。</b><br>
-  macOS 桌面小宠物 · Claude Code 和 Codex · 全部在本机算 · 中文 / English
+  macOS 桌面小宠物 · Claude Code、Codex 和 DeepSeek Harness · 全部在本机算 · 中文 / English
 </p>
 
 ---
 
 ## 一个新的算法
 
-每天你把活交给 Claude Code 和 Codex：改代码、做表、剪视频、查资料、写方案。它们到底替你干了多少？token 数和账单回答不了这个问题。
+每天你把活交给 Claude Code、Codex 和 DeepSeek Harness：改代码、做表、剪视频、查资料、写方案。它们到底替你干了多少？token 数和账单回答不了这个问题。
 
 团子换了个算法：把 AI 当成一群员工。AI 每做一步，团子就问一句「这活该请谁来干」：改代码请软件工程师，修图请设计师，查文献请研究员，问猫为什么拉肚子请医生。它估一个人干这一步要多久，再按美国劳工统计局公布的这个职业的中位时薪，折成一笔工钱。
 
@@ -35,21 +39,21 @@
 - **今天的产出**：今天干了多少钱的活，破没破纪录，团子再说一句话。
 - **四个数字**：今日、本周、本月、总计，每个都带着模型花费和杠杆。
 - **员工名册**：每个职业干了多少小时、值多少钱，现在是什么状态。
-- **Claude Code 与 Codex**：两边各占多少、各自的杠杆。
+- **Claude Code、Codex 与 DeepSeek**：各占多少、各自的杠杆。
 - **最近 30 天**：每天一根柱子，今天是绿色的。
 
 右键可以切换中文和英文。
 
 <p>
   <img src="docs/images/panel-top.png" width="320" alt="面板上半：插画办公室、今天的产出、四个数字">
-  <img src="docs/images/panel-bottom.png" width="320" alt="面板下半：员工名册、Claude Code 与 Codex、最近 30 天、导出">
+  <img src="docs/images/panel-bottom.png" width="320" alt="面板下半：员工名册、各工具占比、最近 30 天、报告和分享">
 </p>
 
-### 老板人格测试
+### 老板人格
 
-团子第一次读完你的历史，会打开一段八屏的故事：先猜猜自己是什么样的老板，再看团子们翻你的历史、揭晓答案、给你发工资条、回放名场面（最晚的一夜、最拼的一天）、出一张体检单，最后介绍你的绝配。
+团子第一次读完你的历史，会放一段故事：团子们翻你的历史、揭晓你是哪一种老板、给你发工资条、回放名场面（最晚的一夜、最拼的一天）、出一张体检单，最后介绍你的绝配。不用答题，全是从你的历史里直接算出来的。之后在右键「老板人格」→「我的老板人格」直接看总卡。
 
-<img src="docs/images/story.png" alt="故事模式：先猜、揭晓、发工资、绝配">
+<img src="docs/images/story.png" alt="故事模式：扫描、揭晓、发工资、绝配">
 
 四个维度，十六型老板：
 
@@ -69,18 +73,18 @@
 
 ### 报告和分享图
 
-右键「报告」，或者点面板导出键左边的方块，打开报告窗口：日报、周报、月报、年报和总计。前四种都和上一期比，也能往回翻到过去任何一期。柱图下面可以在「团子构成」和「做了哪些事」之间切换，后者列出这段时间的会话和项目，只在你自己的电脑上显示。
+右键「报告」，或者点面板底部的「报告」，打开报告窗口：日报、周报、月报、年报和总计。前四种都和上一期比，也能往回翻到过去任何一期。柱图下面可以在「团子构成」和「做了哪些事」之间切换，后者列出这段时间的会话和项目，只在你自己的电脑上显示。
 
-每一页都能导出一张 4:5 的分享图，存到 `~/Pictures/DONGO`，同时复制到剪贴板。分享图上从来不带项目名和会话标题。
+每一页都能导出一张 4:5 的分享图，存到 `~/Pictures/DANGO`。日报、周报、月报、年报上都有这一段时间的老板人格（只按这段时间的活算，可能和你的总卡不一样），总计那张就是你的总人格。面板底部点「分享日报」，存好图直接弹出系统的分享菜单；在它上面点右键，可以改成复制到剪贴板、分享或复制别的周期，或者打开导出文件夹。分享图上从来不带项目名和会话标题。
 
 <p>
   <img src="docs/images/report.png" width="360" alt="报告窗口：周报">
   <img src="docs/images/share.png" width="360" alt="日报分享图">
 </p>
 
-### Claude Code 和 Codex 一起算
+### Claude Code、Codex 和 DeepSeek Harness 一起算
 
-两个工具按同一套规则记，面板上并排比。不用在 Claude Code 或 Codex 里装任何东西，也不用点任何「信任」：团子直接读它们自己写在电脑上的会话记录。
+三个工具按同一套规则记，面板上并排比。不用在它们里面装任何东西，也不用点任何「信任」：团子直接读它们自己写在电脑上的会话记录。
 
 ### 中文和英文
 
@@ -88,7 +92,7 @@
 
 ## 一笔工钱是怎么算出来的
 
-1. **每一步归给一个职业**，并估一个人要干多久：改代码按行数算给软件工程师，写文档按字数算给文案，跑测试算给测试工程师，搜索和读网页算给研究员。你在聊什么话题也算数，聊养生的那段研究归医生，聊股票的归金融分析师。一共 23 种职业：软件工程师、前端工程师、测试工程师、运维工程师、数据分析师、医生、健身教练、心理咨询师、金融分析师、文案、产品经理、视频剪辑、平面设计、音乐人、厨师、数学家、物理学家、化学家、生物学家、建筑师、律师、研究员、资料录入。
+1. **每一步归给一个职业**，并估一个人要干多久：改代码按行数算给软件工程师，写文档按字数算给文案，跑测试算给测试工程师，搜索和读网页算给研究员。你在聊什么话题也算数，聊养生的那段研究归医生，聊股票的归金融分析师。一共 20 种职业：软件工程师、前端工程师、测试工程师、运维工程师、数据分析师、医生、健身教练、心理咨询师、金融分析师、文案、产品经理、视频剪辑、平面设计、音乐人、厨师、科学家、建筑师、律师、研究员、资料录入。
 2. **工钱 = 分钟数 × 这个职业的时薪**。时薪是美国劳工统计局公布的各职业中位时薪，只算工资，不含福利。
 3. **杠杆 = 工钱 ÷ 模型花费**。模型花费按每个回合实际用掉的 token 和官方 API 价格算。
 4. **不封顶，只增不减**：几个 agent 同时干，每一分钟都算；历史总数不会因为算法更新变少。
@@ -98,7 +102,7 @@
 ## 隐私
 
 - 全部在你的 Mac 上算，什么都不上传，也不开网络端口。
-- 读的是你电脑上 Claude Code 和 Codex 的会话记录（`~/.claude`、`~/.codex`）。prompt 只在内存里看一眼，判断你在聊哪一行的事，读完就丢。
+- 读的是你电脑上 Claude Code、Codex 和 DeepSeek Harness 的会话记录（`~/.claude`、`~/.codex`、`~/.dsh`）。prompt 只在内存里看一眼，判断你在聊哪一行的事，读完就丢。
 - 存下来的只有数字：每个回合归给了哪些职业、多少分钟、值多少钱、多少 token、花了多少钱、改了几行。外加会话标题和项目文件夹名，只给报告窗口用。
 - 分享图和总卡上不出现项目名、会话标题、路径和代码。
 
@@ -109,10 +113,10 @@
 在「终端」里运行（下载地址还没上线，上线后就能用）：
 
 ```bash
-curl -fsSL https://dongo.app/install.sh | sh
+curl -fsSL https://dango.app/install.sh | sh
 ```
 
-它会下载 Dango、核对校验值、放进「应用程序」并打开；再运行一次就是更新。用这种方式装，macOS 不会弹「无法验证开发者」。团子出现在屏幕右下角，先花几秒读一遍你的历史，然后自动打开老板人格测试。之后它在后台一直记着，开机也会自己回来；macOS 会提示一次「已添加后台项目」，这是它在后台记录用的。
+它会下载 Dango、核对校验值、放进「应用程序」并打开；再运行一次就是更新。用这种方式装，macOS 不会弹「无法验证开发者」。团子出现在屏幕右下角，先花几秒读一遍你的历史，然后自动放一遍老板人格的故事。之后它在后台一直记着，开机也会自己回来；macOS 会提示一次「已添加后台项目」，这是它在后台记录用的。
 
 也可以用 dmg：打开 `Dango-<版本>.dmg`，把 Dango 拖进「应用程序」，然后打开。第一次打开时 macOS 会提示无法验证开发者，去「系统设置 → 隐私与安全性」点「仍要打开」，再打开一次。
 

diff --git a/docs/DEVELOPMENT.md b/docs/DEVELOPMENT.md
@@ -1,13 +1,13 @@
 # 开发说明
 
-产品介绍在 [README](../README.md)。这里是开发者需要的：仓库结构、怎么构建和测试、怎么接 Claude Code 和 Codex、怎么打包，以及全部命令。设计和取舍在 [DESIGN.md](DESIGN.md)，待定的问题在 [OPEN_QUESTIONS.md](OPEN_QUESTIONS.md)，给 AI 助手看的项目规则在 [CLAUDE.md](../CLAUDE.md)。
+产品介绍在 [README](../README.md)。这里是开发者需要的：仓库结构、怎么构建和测试、怎么接 Claude Code、Codex 和 DeepSeek Harness、怎么打包，以及全部命令。设计和取舍在 [DESIGN.md](DESIGN.md)，待定的问题在 [OPEN_QUESTIONS.md](OPEN_QUESTIONS.md)，给 AI 助手看的项目规则在 [CLAUDE.md](../CLAUDE.md)。
 
 ## 仓库结构
 
 | 目录 | 内容 |
 | --- | --- |
 | `crates/core` | 纯逻辑，不做 IO：事件格式、话题分类、职业归类与时薪、计分、成就 |
-| `crates/daemon` | 守护进程：采集、spool、SQLite、入库、历史导入、跟读 Claude Code 和 Codex 的记录、老板人格（`abti.rs`）、报告 |
+| `crates/daemon` | 守护进程：采集、spool、SQLite、入库、历史导入、跟读 Claude Code、Codex 和 DeepSeek Harness 的记录（`dsh.rs`）、老板人格（`abti.rs`）、报告 |
 | `crates/cli` | 单个二进制 `dango` |
 | `apps/widget` | 桌面 App（Swift / AppKit）：宠物、面板、办公室、老板人格、报告窗口；`build.sh`、`bundle.sh`、`package.sh` |
 | `assets` | 职业表和时薪（`occupations.toml`）、模型单价（`model_prices.toml`）、老板人格的门槛和文案（`abti.json`）、计分单位 |
@@ -99,6 +99,10 @@ curl -fsSL http://localhost:8790/install.sh | DANGO_URL=http://localhost:8790 DA
 
 不用装，也不用在 Codex 里信任任何东西：守护进程每秒读一次 Codex 自己写的会话日志（`~/.codex/sessions/年/月/日/*.jsonl`，同样只读最近 36 小时、只读整行），和导入历史用同一个读法。Codex 的每一步按和 Claude Code 一样的规则归给职业：命令、`apply_patch`（按文件拆开）、MCP 工具、子 agent。以前装过的 `~/.codex/hooks.json` 可以删掉，`dango hook --codex` 现在什么都不做。
 
+## 接 DeepSeek Harness
+
+也不用装（`crates/daemon/src/dsh.rs`）。DeepSeek Harness 把每个会话记成一个只追加的事件日志 `~/.dsh/sessions/<项目>/session-<id>/session.v4.jsonl.zstd`：一个接一个的 zstd 帧，里面是一行行 JSON（`turn/start`、`user/message`、`tool/call`、`tool/result`、带 token 用量的 `assistant/message`、`turn/end` 等）。守护进程第一次见到它时把全部历史导一次（meta `history_imported:deepseek`），之后每秒读新写完的整帧（写到一半的帧等下次），事件 id 和导入时一样，所以只算一次。它的工具就是 Claude Code 那一套换成小写（`bash`、`read`、`write`、`edit`、`glob`、`grep`、`web_fetch`、`web_search`、`subagent`），参数同名，所以每一步走和 Claude Code 一样的归职业规则；它自己的杂务（`job_*`、`schedule_*`、目标、插件）不算谁的活。模型花费按 `assistant/message` 里的 token 和 DeepSeek 官方价格算（`assets/model_prices.toml`，按高峰价，非高峰时段实际只要一半）。DeepSeek 以子 agent 身份跑的会话（`delegationDepth` > 0）暂时不读：里面没写它属于父会话的哪个回合，父会话那边照样记「帮手出去 / 回来」。`config.toml` 里 `[sources] deepseek = false` 可以关掉。
+
 ## 数据在哪
 
 都在 `~/.dango`（`DANGO_HOME` 可改）：
@@ -111,7 +115,7 @@ curl -fsSL http://localhost:8790/install.sh | DANGO_URL=http://localhost:8790 DA
 | `config.toml` | 语言等设置（`dango lang zh|en`） |
 | `daemon.log` | 守护进程日志 |
 
-导出的图片存在 `~/Pictures/DONGO`。
+导出的图片存在 `~/Pictures/DANGO`。
 
 ## 命令
 
@@ -119,14 +123,14 @@ curl -fsSL http://localhost:8790/install.sh | DANGO_URL=http://localhost:8790 DA
 | --- | --- |
 | `dango widget` | 打开桌面 App |
 | `dango status [--claude]` | 一行状态（`--claude` 给 Claude Code 的状态栏用） |
-| `dango abti [--json]` | 老板人格测试的结果 |
+| `dango abti [--json]` | 老板人格的结果 |
 | `dango abti --report day\|week\|month\|year\|total [--day DATE]` | 报告窗口一页的数据（JSON） |
-| `dango card [--week\|--month\|--year] [--day DATE] [--out PNG] [--no-open]` | 导出 4:5 分享图到 `~/Pictures/DONGO` 并复制（会覆盖剪贴板） |
-| `dango report [--week\|--month\|--year] [--day DATE] [--names] [--tool claude\|codex] [--json]` | 文字版报告 |
+| `dango card [--week\|--month\|--year] [--day DATE] [--out PNG] [--no-open]` | 导出 4:5 分享图到 `~/Pictures/DANGO` 并复制（会覆盖剪贴板） |
+| `dango report [--week\|--month\|--year] [--day DATE] [--names] [--tool claude\|codex\|deepseek] [--json]` | 文字版报告 |
 | `dango lang [zh\|en]` | 查看或切换语言 |
 | `dango stats` / `dango badges` | 产出总览 / 旧的成就图鉴 |
 | `dango panel` | 旧的网页面板（`~/.dango/panel.html`） |
-| `dango backfill [--claude-dir DIR] [--codex-dir DIR]` | 导入历史（守护进程要先停；可以重复跑，不会重复计） |
+| `dango backfill [--claude-dir DIR] [--codex-dir DIR] [--dsh-dir DIR]` | 导入历史（守护进程要先停；可以重复跑，不会重复计） |
 | `dango daemon` | 前台跑守护进程 |
 | `dango hook [--codex]` | 插件钩子的入口：读 stdin，写 spool，永远 exit 0 |
 | `dango replay PATH…` | 回放 hook fixtures |

diff --git a/docs/OPEN_QUESTIONS.md b/docs/OPEN_QUESTIONS.md
@@ -88,9 +88,9 @@
 
 ## 老板人格测试 ABTI（2026-10-31）
 
-24. ~~字标~~：2026-11-01 用户要求面板也按设计包改，统一写 DONGO。App 名、命令、数据目录仍是 Dango / dango。
-25. ~~导出文件夹~~：2026-11-01 统一成设计包的 `~/Pictures/DONGO`；旧的 `~/Pictures/Dango` 里已有的图不动。
-26. **二维码和域名**：总卡上的二维码指向 `https://dongo.app/?ref=card`，邀请链接 `?ref=invite`，都是占位，落地页还没有。
+24. ~~字标~~：2026-11-01 用户要求面板也按设计包改，统一写 DONGO。App 名、命令、数据目录仍是 Dango / dango。2026-11-07 用户：产品名是 dango 不是 dongo，所有界面都改成 DANGO（字标 D + 团子当 A + NGO）。
+25. ~~导出文件夹~~：2026-11-01 统一成设计包的 `~/Pictures/DONGO`；旧的 `~/Pictures/Dango` 里已有的图不动。2026-11-07 起是 `~/Pictures/DANGO`，`~/Pictures/DONGO` 里已有的图同样不动。
+26. **二维码和域名**：2026-11-07 查了，dango.app 不是我们的（NS 在 afternic，打开跳到 GoDaddy 的出售页），所以分享图、总卡、故事「分享这一屏」上的二维码和 dango.app 字样、邀请文字里的链接都去掉了，不换别的（用户：「不需要二维码dango.app，啥都不需要」）。还没定：README / package.sh 的安装地址和 site/ 的 SITE_URL 仍写着 dango.app——谁买下这个域名谁就控制 install.sh，得在发出去之前换成自己能控制的域名。
 27. **文案和产品经理加回来后历史没重算**：旧回合里写文档的分钟仍记在研究员（$37.87/小时）。重算会挪到文案（$36.98）或产品经理（$49.19），总数可能变少，要 `dango rebuild --allow-lower`，需要你同意。
 28. 故事已有英文版（我们写的，设计师可以再改 abti.json 里的 `*_en`）。总卡写「看全部 16 型」打开图鉴，但设计稿的总卡上没有这个入口，现在从右键「老板人格测试 → 16 型图鉴」打开，网上在 `site/` 的 16 型页面。
 
